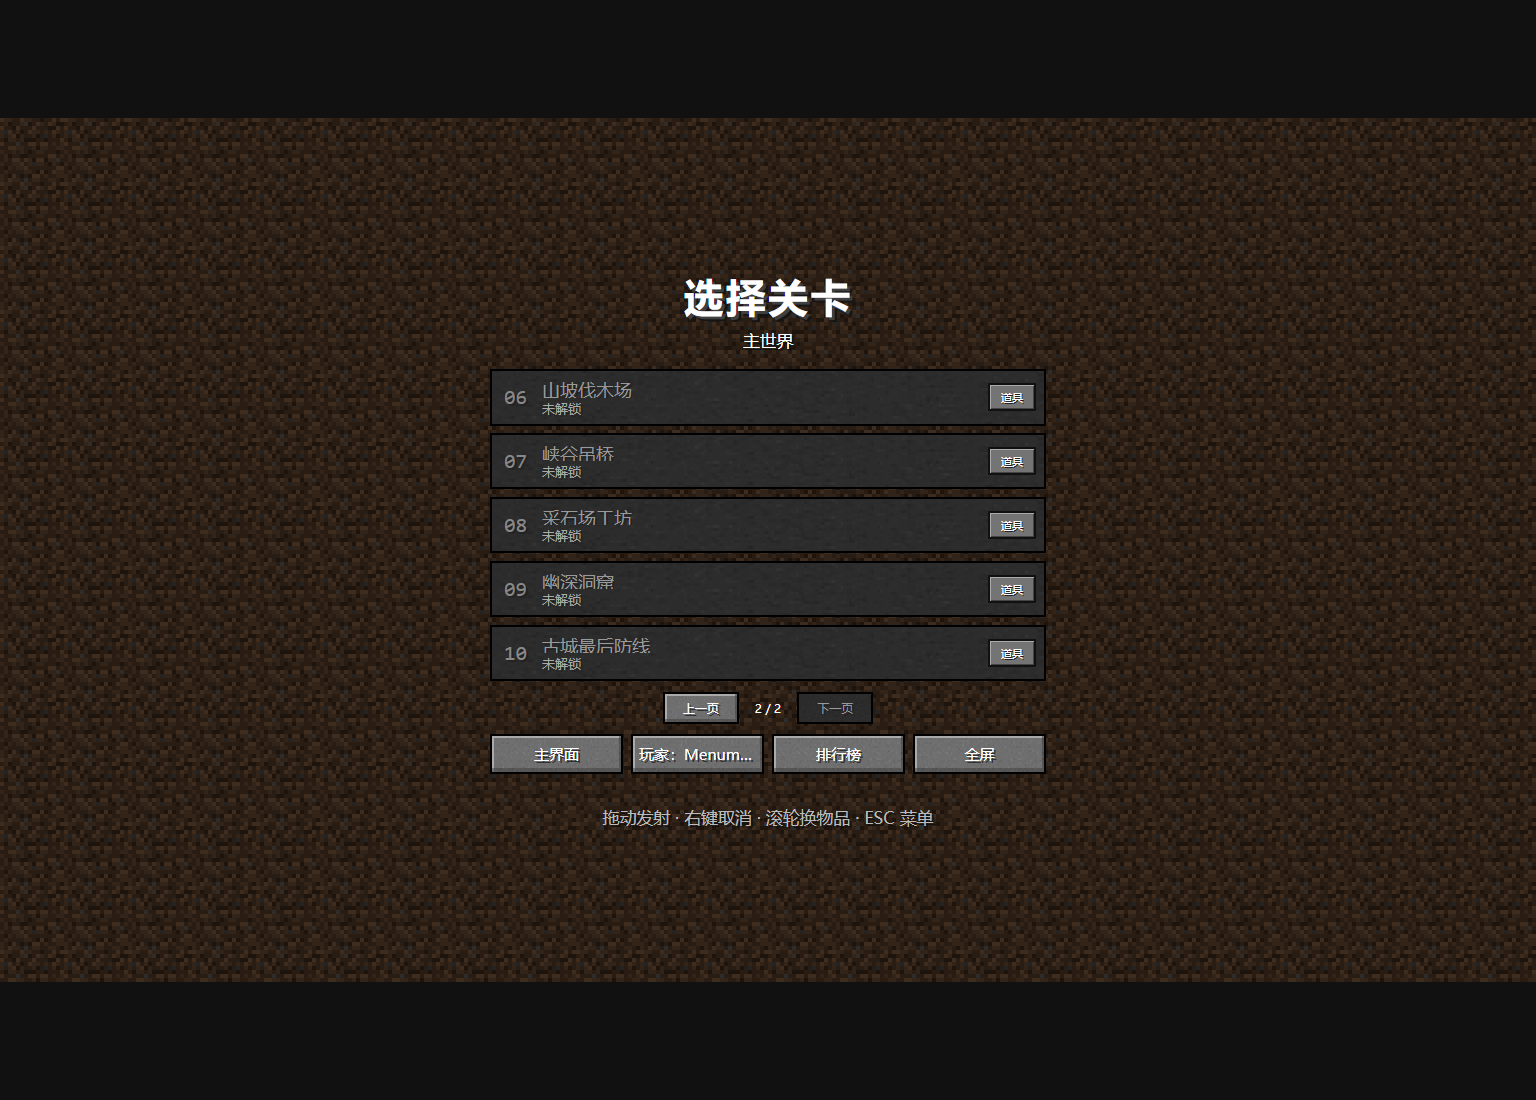
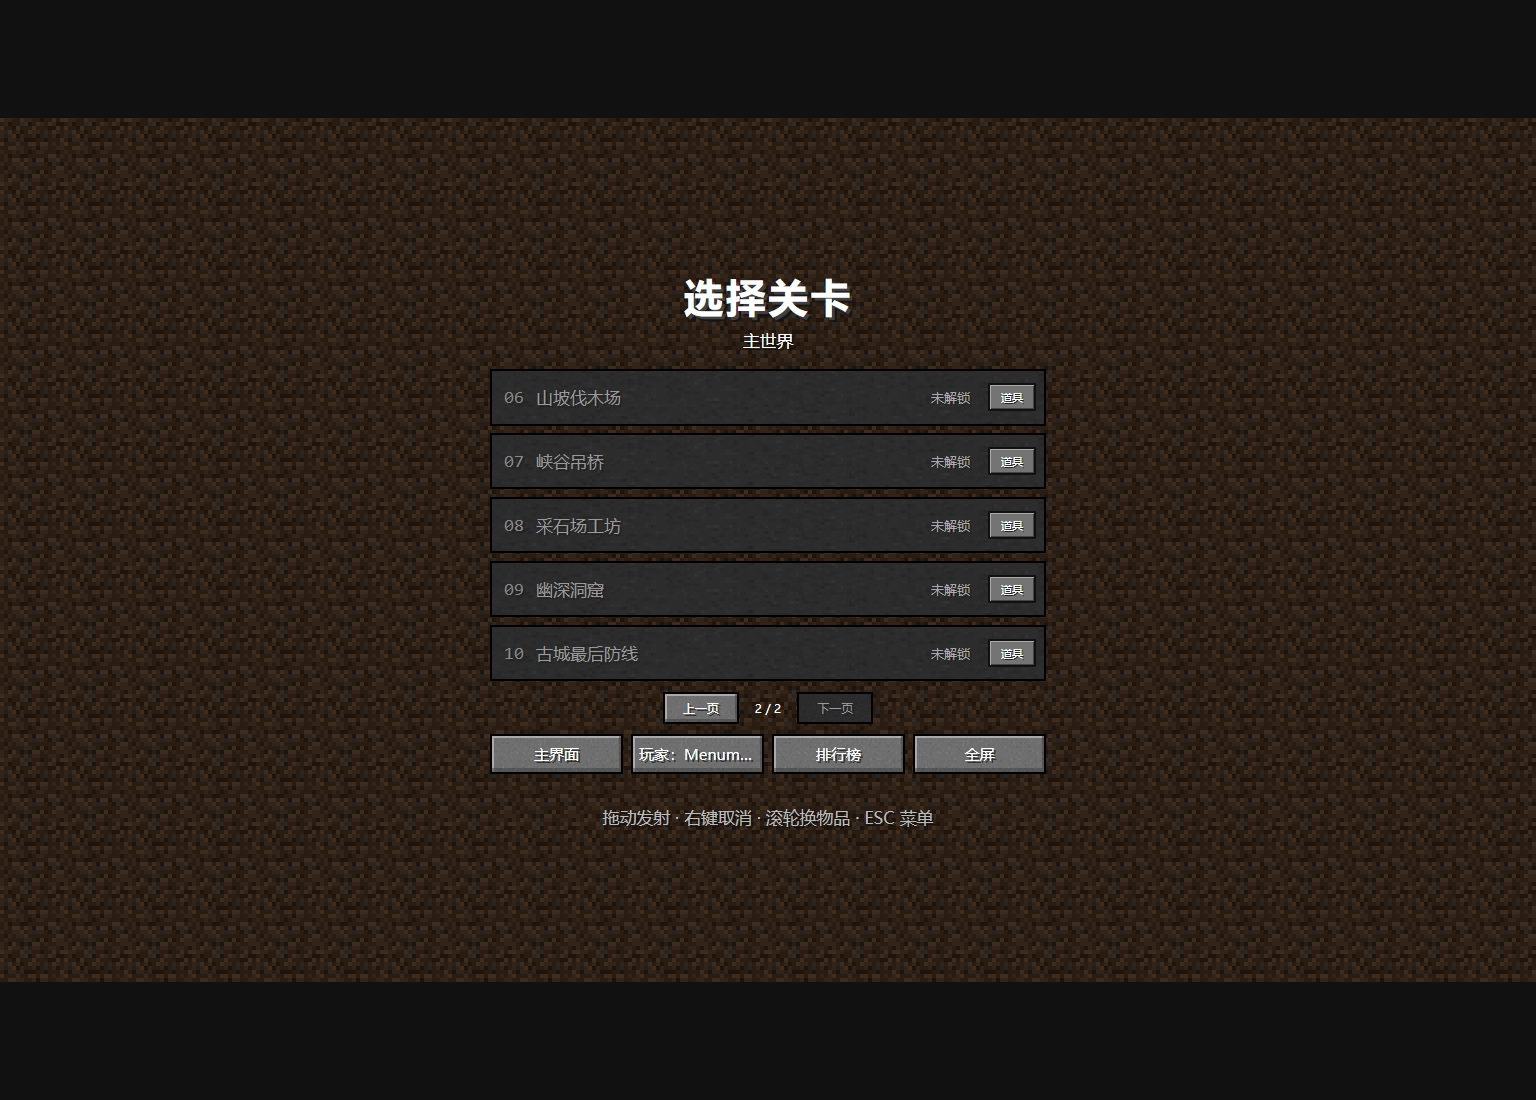
Keep level title and personal best on one unclipped row

diff --git a/style.css b/style.css
@@ -25,10 +25,10 @@ h1{margin:0;font-size:clamp(24px,4.2cqw,64px);font-weight:900;letter-spacing:.15
 .menu-subtitle,.menu-help{font-size:clamp(9px,1.1cqw,17px);color:#ddd;line-height:1.5;text-shadow:2px 2px #111}
 .menu-subtitle{margin:1cqw 0 2cqw;color:#fff}.menu-help{margin:2cqw 0 0;color:#bbb}
 .level-grid{display:grid;grid-template-columns:1fr;gap:clamp(4px,.9cqh,8px)}
-.level-card{padding:5px 76px 5px 48px;display:flex;flex-direction:column;align-items:flex-start;justify-content:center;gap:2px;text-align:left}
-.level-card strong{max-width:100%;overflow:hidden;text-overflow:ellipsis;white-space:nowrap;font-size:clamp(12px,1.5cqw,18px);font-weight:500}
+.level-card{padding:4px 72px 4px 10px;display:grid;grid-template-columns:24px minmax(0,1fr) max-content;align-items:center;gap:8px;text-align:left}
+.level-card strong{min-width:0;overflow:hidden;text-overflow:ellipsis;white-space:nowrap;font-size:clamp(11px,1.3cqw,17px);font-weight:500}
 .level-card .personal-best{font-size:clamp(10px,1.05cqw,13px);color:#ffffa0;white-space:nowrap}
-.level-card .level-number{position:absolute;left:14px;top:50%;transform:translateY(-50%);font-family:monospace;font-size:clamp(14px,1.6cqw,21px);color:#ddd}.level-card:disabled .level-number{color:#888}
+.level-card .level-number{font-family:monospace;font-size:clamp(13px,1.3cqw,18px);color:#ddd}.level-card:disabled .level-number{color:#888}
 .level-card small{display:none}.level-card:disabled .personal-best{color:#aaa}
 .page-controls{display:flex;align-items:center;justify-content:center;gap:16px;margin:clamp(6px,1.2cqh,12px) 0;font-size:12px}.page-controls button{padding:4px 16px;font-size:12px;min-height:28px}
 .pause-panel{width:32%;min-width:200px;display:grid;gap:1cqw;text-align:center}
@@ -54,7 +54,7 @@ h1{margin:0;font-size:clamp(24px,4.2cqw,64px);font-weight:900;letter-spacing:.15
 #resultTiming{color:#ffffa0;font-variant-numeric:tabular-nums}
 .fullscreen-feedback{position:fixed;left:10%;right:10%;bottom:18%;z-index:100;padding:12px;background:#202020ef;border:2px solid #888;text-align:center;font-size:14px;line-height:1.6;pointer-events:none}
 #loadState{position:absolute;inset:0;display:grid;place-items:center;padding:35px;background:#202020;z-index:50;text-align:center;line-height:1.8}#loadState.error{color:#ffd3ce;background:#311c1c}
-@container (max-height:440px){.campaign-panel{padding:4px 2px}.campaign-panel>h1{font-size:18px}.campaign-panel>.menu-subtitle{margin:2px 0 5px;font-size:10px}.menu-help{display:none}.page-controls{margin:4px 0}.page-controls button{height:26px;min-height:26px;padding:1px 8px}.menu-actions{margin-top:4px!important}.menu-actions button{height:26px;min-height:26px!important;padding:1px 8px!important}.loadout-info{height:25px}.level-card{padding:3px 70px 3px 38px;flex-direction:row;align-items:center;justify-content:space-between;gap:6px}.level-card strong{font-size:11px;flex:1;min-width:0}.level-card .personal-best{font-size:9px}}
+@container (max-height:440px){.campaign-panel{padding:4px 2px}.campaign-panel>h1{font-size:18px}.campaign-panel>.menu-subtitle{margin:2px 0 5px;font-size:10px}.menu-help{display:none}.page-controls{margin:4px 0}.page-controls button{height:26px;min-height:26px;padding:1px 8px}.menu-actions{margin-top:4px!important}.menu-actions button{height:26px;min-height:26px!important;padding:1px 8px!important}.loadout-info{height:25px}.level-card strong{font-size:11px}.level-card .personal-best{font-size:9px}}
 .menu-actions{display:grid;grid-template-columns:repeat(4,minmax(0,1fr));gap:8px;margin-top:10px}.menu-actions button{padding:6px 4px;font-size:clamp(11px,1.1cqw,15px);white-space:nowrap;overflow:hidden;text-overflow:ellipsis;min-width:0}
 .dialog-panel{width:min(620px,76%);max-height:92%;overflow:auto;padding:2cqw;display:grid;gap:1cqw;background:#202020;border:4px solid #777;box-shadow:inset 3px 3px #444,inset -3px -3px #080808;text-shadow:2px 2px #111}
 .dialog-panel h2{margin:0;text-align:center;font-size:clamp(18px,2.2cqw,32px)}.dialog-panel p{margin:.2cqw 0;line-height:1.6;font-size:clamp(11px,1.1cqw,16px)}.dialog-panel button{padding:.65cqw;font-size:clamp(13px,1.2cqw,18px)}
@@ -65,5 +65,5 @@ h1{margin:0;font-size:clamp(24px,4.2cqw,64px);font-weight:900;letter-spacing:.15
 .rotate-hint{display:none;position:fixed;left:12px;right:12px;bottom:max(24px,env(safe-area-inset-bottom));text-align:center;color:#ddd;font-size:14px;line-height:1.8}.rotate-hint button{display:block;margin:10px auto;padding:10px 20px}
 @media (pointer:coarse){.touch-controls{display:flex}.inventory{width:72%;bottom:max(1.3%,env(safe-area-inset-bottom))}.gamehint{font-size:12px}.menu-help{font-size:11px}.menu-actions button{min-height:34px}.menu-actions{margin-top:1cqw}}
 @media (pointer:coarse){.gamehint{left:30%;right:3%;top:18px}}
-@media (orientation:portrait){.menu-open canvas{object-fit:contain}.viewport.menu-open{width:100vw;height:100dvh}.campaign-panel{width:min(560px,92%);max-height:96%;padding:10px 2px}.level-grid{grid-template-columns:1fr;gap:8px}.level-card-wrap{height:62px}.level-card strong{font-size:15px}.level-card .personal-best{font-size:11px}.campaign-panel>h1{font-size:28px}.menu-actions{flex-wrap:wrap;gap:6px;margin-top:10px}.menu-actions button{padding:6px 8px}.dialog-panel{width:92%;padding:16px;gap:12px}.dialog-panel h2{font-size:22px}.dialog-panel p{font-size:13px}.dialog-panel button{min-height:38px}.ranking-scroll{max-height:48dvh}.ranking-scroll table{font-size:12px}.ranking-scroll td,.ranking-scroll th{padding:8px 3px}.menu-open~.rotate-hint{display:none}.start-title{top:20%}.start-title h1{font-size:48px}.start-title p{font-size:14px}.start-prompt{bottom:18%;font-size:16px}}
+@media (orientation:portrait){.menu-open canvas{object-fit:contain}.viewport.menu-open{width:100vw;height:100dvh}.campaign-panel{width:min(560px,92%);max-height:96%;padding:10px 2px}.level-grid{grid-template-columns:1fr;gap:8px}.level-card-wrap{height:62px}.level-card{padding:4px 62px 4px 8px;grid-template-columns:20px minmax(0,1fr) max-content;gap:5px}.level-card strong{font-size:clamp(11px,3.3vw,15px)}.level-card .personal-best{font-size:10px}.loadout-info{right:7px;width:44px}.campaign-panel>h1{font-size:28px}.menu-actions{flex-wrap:wrap;gap:6px;margin-top:10px}.menu-actions button{padding:6px 8px}.dialog-panel{width:92%;padding:16px;gap:12px}.dialog-panel h2{font-size:22px}.dialog-panel p{font-size:13px}.dialog-panel button{min-height:38px}.ranking-scroll{max-height:48dvh}.ranking-scroll table{font-size:12px}.ranking-scroll td,.ranking-scroll th{padding:8px 3px}.menu-open~.rotate-hint{display:none}.start-title{top:20%}.start-title h1{font-size:48px}.start-title p{font-size:14px}.start-prompt{bottom:18%;font-size:16px}}
 @media (orientation:portrait) and (pointer:coarse){.rotate-hint{display:block}}

diff --git a/docs/TOY.md b/docs/TOY.md
@@ -1,5 +1,9 @@
 # B 站 Toy 适配
 
+## 当前试玩修正：关卡单行信息 — 2026-10-18
+
+修复中等窗口高度下双行文字挤压标题：所有横竖屏统一按“编号 → 完整标题 → 最快用时 → 道具”单行居中排列，不再上下分行。窄屏缩小字号与列间距，保留每页五关。带十关成绩的回归覆盖1536×1100、1000×700、670×520、568×320、390×844、320×568两页内容，校验标题未裁切、各列不重叠；12项相关浏览器用例通过，截图已人工检查。更新内网与GitHub，不提交Toy审核。
+
 ## 当前试玩：实机首页与五关竖排选世界 — 2026-10-18
 
 按最新反馈替换封面首页与十关卡片：主菜单复用实际游戏渲染器和纹理，独立搭建第一关风格的小木屋，缩小建筑、改为半格屋面并减少室内摆设；不计入通关进度或计时。云保留方块轮廓，移除3像素位置取整，改用逐帧视觉时间，菜单内也连续移动。
